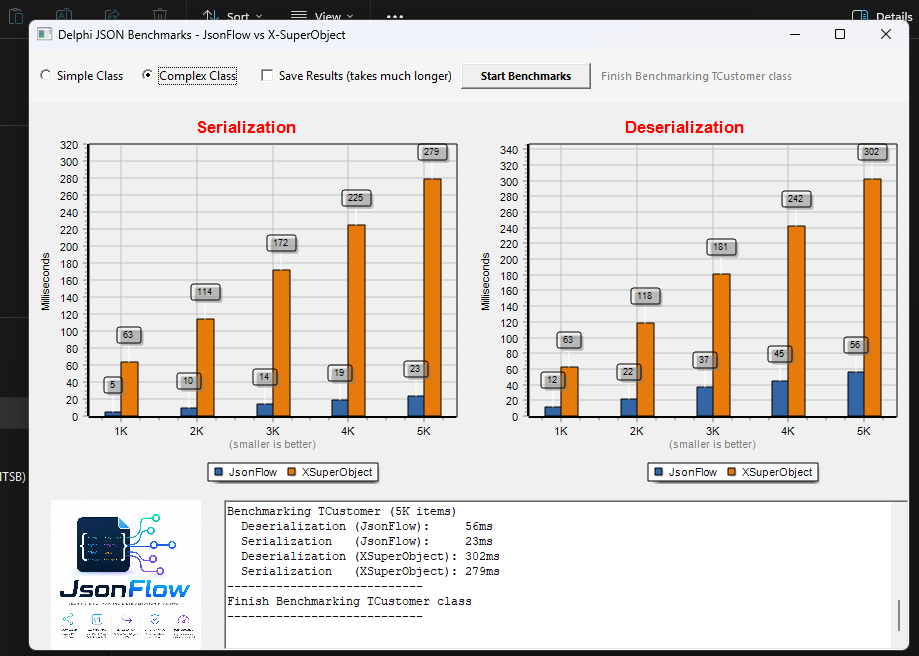
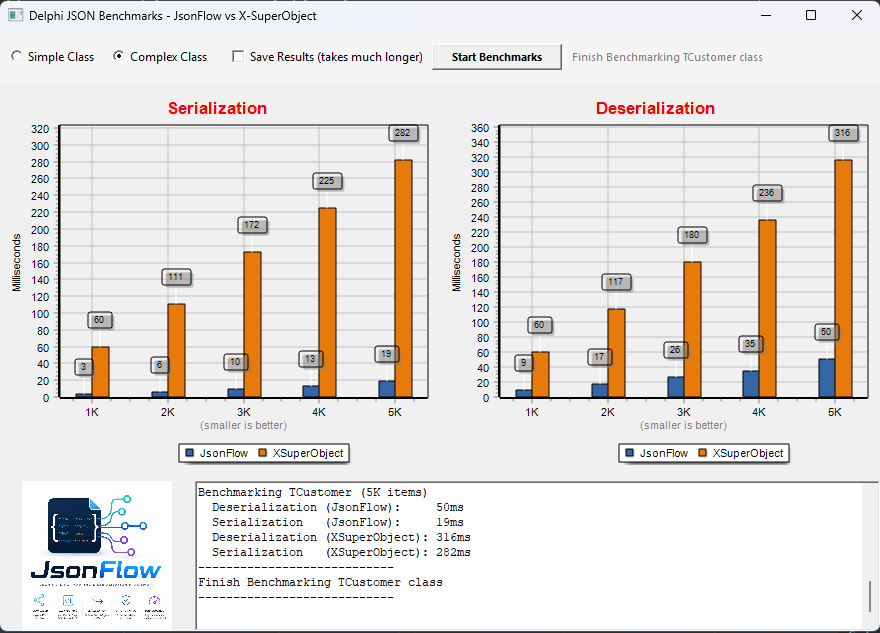
Merge pull request #45 from ModernDelphiWorks/docs/benchmark-update-post-audit
docs: atualiza benchmark vs X-SuperObject pós-auditoria (~6× deser / ~15× ser)

Pull request: docs: atualiza benchmark vs X-SuperObject pós-auditoria (~6× deser / ~15× ser)
Re-execução do benchmark sobre o main com as 4 fases da auditoria de performance (PRs #41–#44) mergeadas.

## Números novos (Complex 5K, Release Win32)

| | Antes (print publicado) | Agora |
|---|---|---|
| Deserialização JsonFlow | 59ms | **50ms** |
| Serialização JsonFlow | 24ms | **19ms** |
| X-SuperObject | 304/286ms | 316/282ms (estável ✓) |
| **Vantagem** | ~5× / ~12× | **~6× / ~15×** |

## Conteúdo

- `assets/benchmarks-xsuperobject.png`: print novo da execução pós-auditoria
- `README.md` / `README.pt-BR.md`: números atualizados no texto
- `JsonFlowBenchmarkXSO.exe`: recompilado com o código otimizado
- Form do benchmark re-salvo pela IDE (BOM + toque de layout no dfm)

🤖 Generated with [Claude Code](https://claude.com/claude-code)

Changed region(s): [[0.0, 0.0, 1.0, 1.0]]

diff --git a/README.md b/README.md
@@ -50,7 +50,7 @@ Below is a comparison demonstrating JsonFlow's performance superiority against s
   <img src="assets/benchmarks.png" alt="JsonFlow Performance Comparison Chart" width="800"/>
 </p>
 
-JsonFlow was also benchmarked against the popular [X-SuperObject](https://github.com/onryldz/x-superobject) library — Complex Class scenario (1K to 5K `TCustomer` objects with nested `Address` and `Contacts`). Median of 3 runs (Release, Win32) at the 5K scale: **~5× faster deserialization** (59ms vs 304ms) and **~12× faster serialization** (24ms vs 286ms):
+JsonFlow was also benchmarked against the popular [X-SuperObject](https://github.com/onryldz/x-superobject) library — Complex Class scenario (1K to 5K `TCustomer` objects with nested `Address` and `Contacts`). At the 5K scale (Release, Win32): **~6× faster deserialization** (50ms vs 316ms) and **~15× faster serialization** (19ms vs 282ms):
 
 <p align="center">
   <img src="assets/benchmarks-xsuperobject.png" alt="JsonFlow vs X-SuperObject Performance Comparison Chart" width="800"/>

diff --git a/README.pt-BR.md b/README.pt-BR.md
@@ -46,7 +46,7 @@ Abaixo está o gráfico comparativo demonstrando a superioridade de performance 
   <img src="assets/benchmarks.png" alt="Gráfico Comparativo de Performance do JsonFlow" width="800"/>
 </p>
 
-O JsonFlow também foi comparado com a popular biblioteca [X-SuperObject](https://github.com/onryldz/x-superobject) — cenário Complex Class (1K a 5K objetos `TCustomer` com `Address` e `Contacts` aninhados). Mediana de 3 execuções (Release, Win32) na escala de 5K: **deserialização ~5× mais rápida** (59ms vs 304ms) e **serialização ~12× mais rápida** (24ms vs 286ms):
+O JsonFlow também foi comparado com a popular biblioteca [X-SuperObject](https://github.com/onryldz/x-superobject) — cenário Complex Class (1K a 5K objetos `TCustomer` com `Address` e `Contacts` aninhados). Na escala de 5K (Release, Win32): **deserialização ~6× mais rápida** (50ms vs 316ms) e **serialização ~15× mais rápida** (19ms vs 282ms):
 
 <p align="center">
   <img src="assets/benchmarks-xsuperobject.png" alt="Gráfico Comparativo JsonFlow vs X-SuperObject" width="800"/>